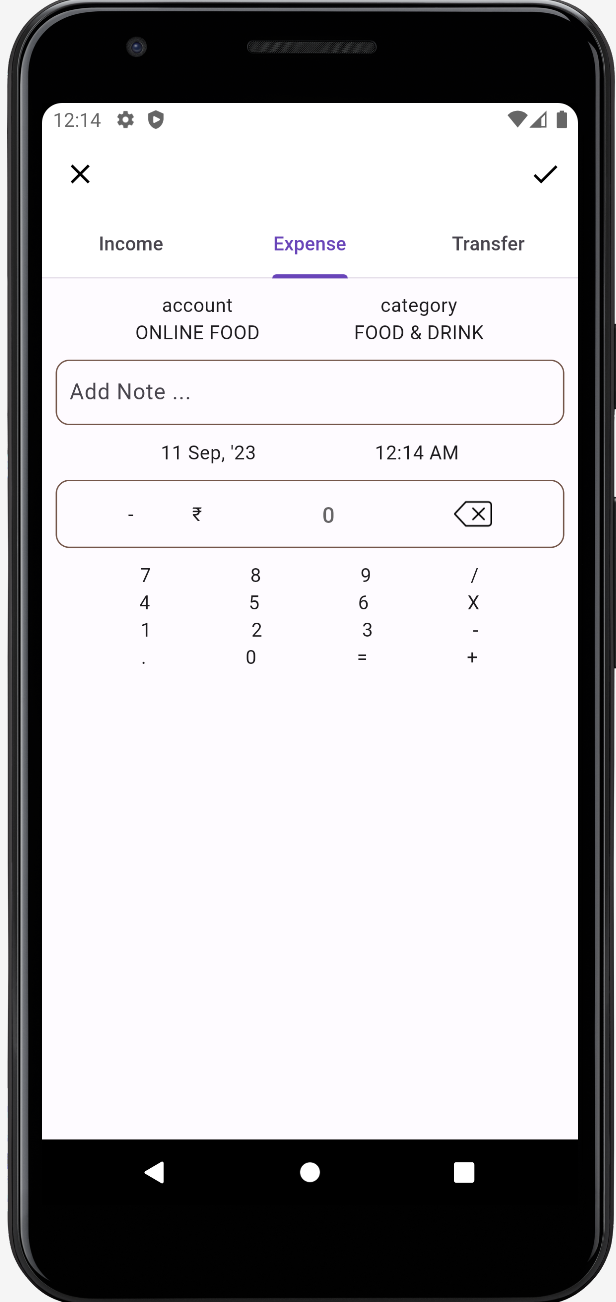
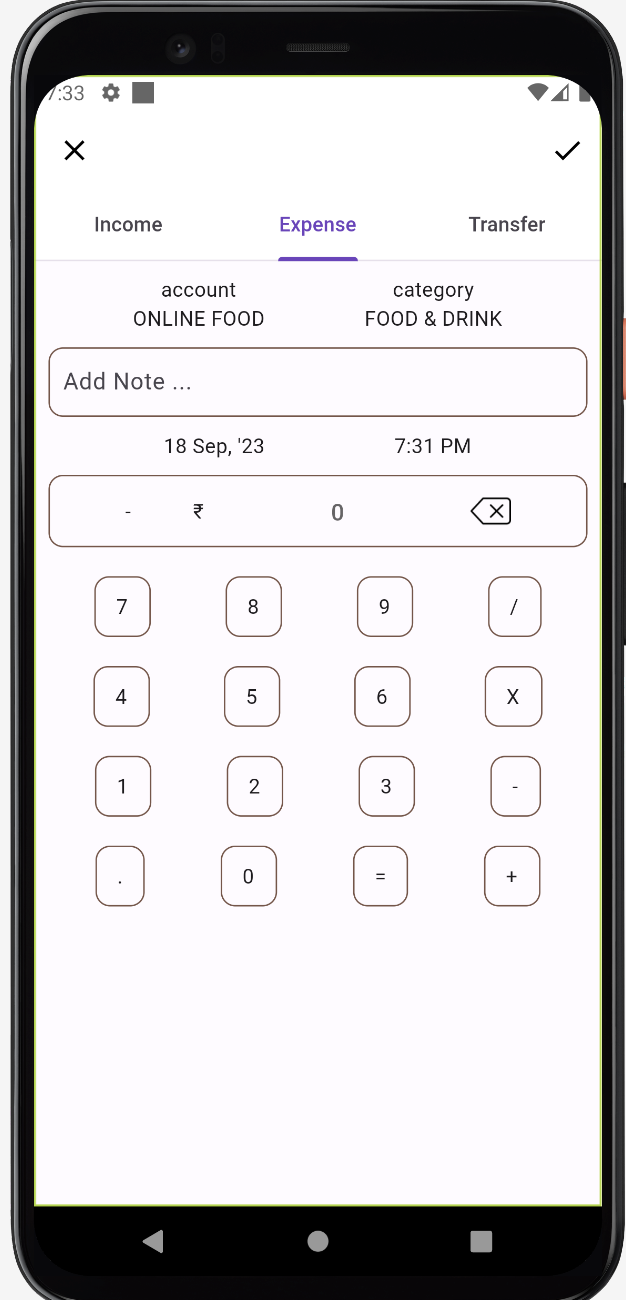
Initial Local expense data setup

diff --git a/lib/CreateRecord.dart b/lib/CreateRecord.dart
@@ -1,3 +1,5 @@
+import 'package:budget_track/localDb/database_repository.dart';
+import 'package:budget_track/localDb/expenseDbModel.dart';
 import 'package:budget_track/utils/Constant.dart';
 import 'package:flutter/material.dart';
 import 'package:get/get_rx/src/rx_types/rx_types.dart';
@@ -5,7 +7,7 @@ import 'package:intl/intl.dart';
 
 import 'createRecordUI.dart';
 
-class CreateRecord extends StatefulWidget{
+class CreateRecord extends StatefulWidget {
   const CreateRecord({super.key});
 
   @override
@@ -13,25 +15,28 @@ class CreateRecord extends StatefulWidget{
 }
 
 class _CreateRecordState extends State<CreateRecord> {
-
   final addNoteTxt = TextEditingController();
   final addAmountTxt = TextEditingController();
   RxString timePicked = "".obs;
-  RxString datePicked = DateFormat(Constant.recordDateFormat).format(DateTime.now()).toString().obs;
+  RxString datePicked = DateFormat(Constant.recordDateFormat)
+      .format(DateTime.now())
+      .toString()
+      .obs;
 
   @override
   Widget build(BuildContext context) {
+    timePicked = TimeOfDay.now().format(context).obs;
     return DefaultTabController(
       length: 3,
       initialIndex: 1,
       child: Scaffold(
         appBar: AppBar(
           backgroundColor: Colors.white,
-          leading:IconButton(
+          leading: IconButton(
             icon: const Icon(Icons.close),
             color: Colors.black,
             onPressed: () {
-
+              getExpanse();
             },
           ),
           actions: [
@@ -39,15 +44,21 @@ class _CreateRecordState extends State<CreateRecord> {
               icon: const Icon(Icons.check),
               color: Colors.black,
               onPressed: () {
-
+                addExpense();
               },
             ),
           ],
           bottom: const TabBar(
             tabs: [
-              Tab(child: Text("Income"),),
-              Tab(child: Text("Expense"),),
-              Tab(child: Text("Transfer"),),
+              Tab(
+                child: Text("Income"),
+              ),
+              Tab(
+                child: Text("Expense"),
+              ),
+              Tab(
+                child: Text("Transfer"),
+              ),
             ],
           ),
         ),
@@ -62,15 +73,13 @@ class _CreateRecordState extends State<CreateRecord> {
     );
   }
 
-  Widget incomeTab(){
-    return Column(
-      children: [
-        Icon(Icons.check),
-        Icon(Icons.close)
-      ],
+  Widget incomeTab() {
+    return const Column(
+      children: [Icon(Icons.check), Icon(Icons.close)],
     );
   }
-  Widget expenseTab(){
+
+  Widget expenseTab() {
     return Column(
       children: [
         accountCategory(),
@@ -81,12 +90,35 @@ class _CreateRecordState extends State<CreateRecord> {
       ],
     );
   }
-  Widget transferTab(){
+
+  Widget transferTab() {
     return Column(
-      children: [
-        Icon(Icons.chair),
-        Icon(Icons.close)
-      ],
+      children: [Icon(Icons.chair), Icon(Icons.close)],
     );
+  }
+
+  void addExpense() async {
+    ExpenseDbModel expenseDbModel = ExpenseDbModel(
+        account: 'Online Food',
+        category: 'Food & Drink',
+        expenseNote: addNoteTxt.text,
+        date: datePicked.value,
+        time: timePicked.value,
+        amount: addAmountTxt.text,
+        currency: '₹');
+    print("Time: ${timePicked.value}");
+    await DatabaseRepository.instance.insert(expenseDbModel: expenseDbModel);
+  }
+
+  void getExpanse() async {
+    await DatabaseRepository.instance.getAllExpense().then((value) {
+      int i = 0;
+      while (i < value.length) {
+        var expanse = value[i];
+        print(
+            "Expanse List: id:${expanse.id}, acc:${expanse.account}, cat:${expanse.category}, note:${expanse.expenseNote}, date:${expanse.date}, time:${expanse.time}, amt:${expanse.amount}, curr:${expanse.currency}");
+        i++;
+      }
+    }).catchError((e) => debugPrint(e.toString()));
   }
 }

diff --git a/lib/localDb/database_repository.dart b/lib/localDb/database_repository.dart
@@ -1,3 +1,4 @@
+import 'package:budget_track/localDb/expenseDbModel.dart';
 import 'package:path/path.dart';
 import 'package:sqflite/sqflite.dart';
 
@@ -7,6 +8,7 @@ class DatabaseRepository {
   Database? _database;
 
   static final DatabaseRepository instance = DatabaseRepository._init();
+
   DatabaseRepository._init();
 
   Future<Database> get database async {
@@ -33,8 +35,24 @@ class DatabaseRepository {
    date text not null,
    time text not null,
    amount text not null,
-   currency text not null,   
-)
-''');
+   currency text not null)
+  ''');
+  }
+
+  Future<void> insert({required ExpenseDbModel expenseDbModel}) async {
+    try {
+      final db = await database;
+      db.insert(Constant.expenseTable, expenseDbModel.toMap());
+    } catch (e) {
+      print(e.toString());
+    }
+  }
+
+  Future<List<ExpenseDbModel>> getAllExpense() async {
+    final db = await instance.database;
+
+    final result = await db.query(Constant.expenseTable);
+
+    return result.map((json) => ExpenseDbModel.fromJson(json)).toList();
   }
 }

diff --git a/lib/localDb/expenseDbModel.dart b/lib/localDb/expenseDbModel.dart
@@ -1,7 +1,7 @@
 import 'dart:core';
 
 class ExpenseDbModel {
-  final int id;
+  final int? id;
   final String account;
   final String category;
   final String expenseNote;
@@ -11,7 +11,7 @@ class ExpenseDbModel {
   final String currency;
 
   ExpenseDbModel(
-      {required this.id,
+      {this.id,
       required this.account,
       required this.category,
       required this.expenseNote,

diff --git a/lib/createRecordUI.dart b/lib/createRecordUI.dart
@@ -37,7 +37,6 @@ Widget addNote(TextEditingController addNoteTxt) {
 }
 
 Widget dateTime(BuildContext context, RxString stDate, RxString stTime) {
-  stTime = TimeOfDay.now().format(context).obs;
   return Row(
     mainAxisAlignment: MainAxisAlignment.spaceEvenly,
     children: [
